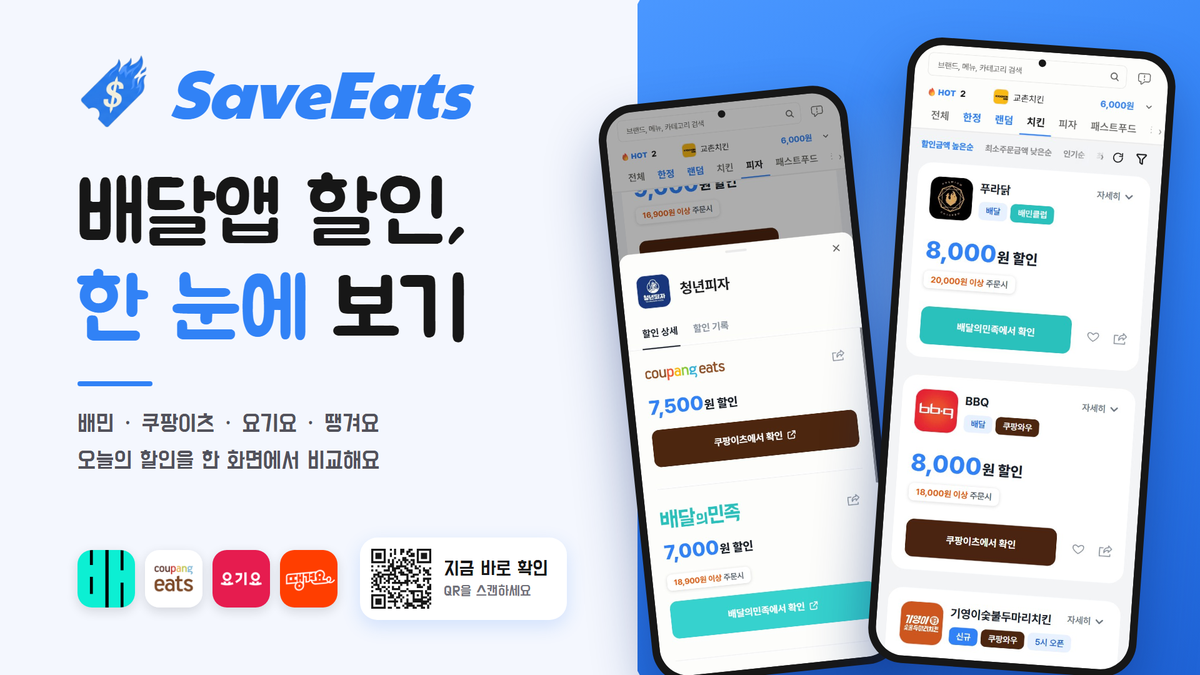
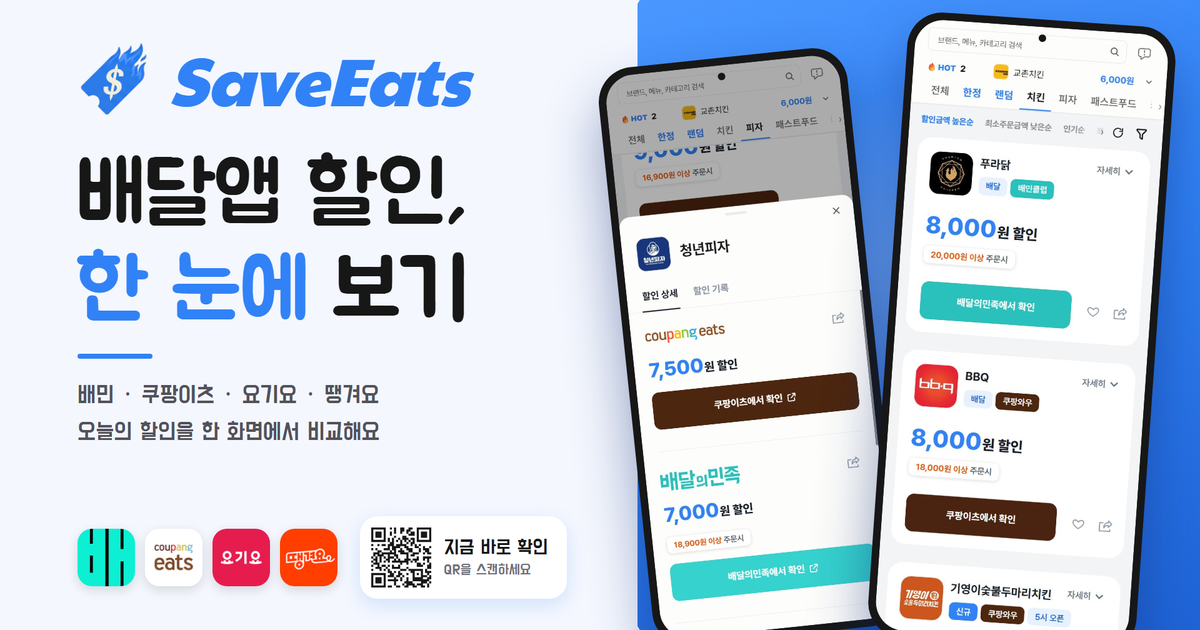
mirror: woowacourse-teams/2026-to-discount@1685e2dbf2125b44793f02f3b07080c8c0b694a2
이 저장소에 직접 커밋하지 않는다. 원본은 woowacourse-teams/2026-to-discount의 web/ 이고, 여기 직접 넣은 것은 다음 미러에 덮인다.

diff --git a/public/privacy/index.html b/public/privacy/index.html
@@ -12,9 +12,9 @@
   <meta property="og:description" content="SaveEats가 쓰는 방문 통계, 검색어 기록, 쿠키와 거부 방법을 안내합니다." />
   <meta property="og:url" content="https://beggars-five.vercel.app/privacy" />
   <meta property="og:locale" content="ko_KR" />
-  <meta property="og:image" content="https://beggars-five.vercel.app/og-image.png?v=2" />
+  <meta property="og:image" content="https://beggars-five.vercel.app/og-image.png?v=3" />
   <meta property="og:image:width" content="1200" />
-  <meta property="og:image:height" content="675" />
+  <meta property="og:image:height" content="630" />
   <meta name="twitter:card" content="summary_large_image" />
   <meta name="theme-color" content="#171717" />
   <link rel="manifest" href="/manifest.webmanifest" />

diff --git a/public/about/index.html b/public/about/index.html
@@ -12,9 +12,9 @@
   <meta property="og:description" content="배달앱 네 곳의 할인을 브랜드별로 한 화면에서 비교해요." />
   <meta property="og:url" content="https://beggars-five.vercel.app/about" />
   <meta property="og:locale" content="ko_KR" />
-  <meta property="og:image" content="https://beggars-five.vercel.app/og-image.png?v=2" />
+  <meta property="og:image" content="https://beggars-five.vercel.app/og-image.png?v=3" />
   <meta property="og:image:width" content="1200" />
-  <meta property="og:image:height" content="675" />
+  <meta property="og:image:height" content="630" />
   <meta name="twitter:card" content="summary_large_image" />
   <meta name="theme-color" content="#171717" />
   <link rel="manifest" href="/manifest.webmanifest" />
